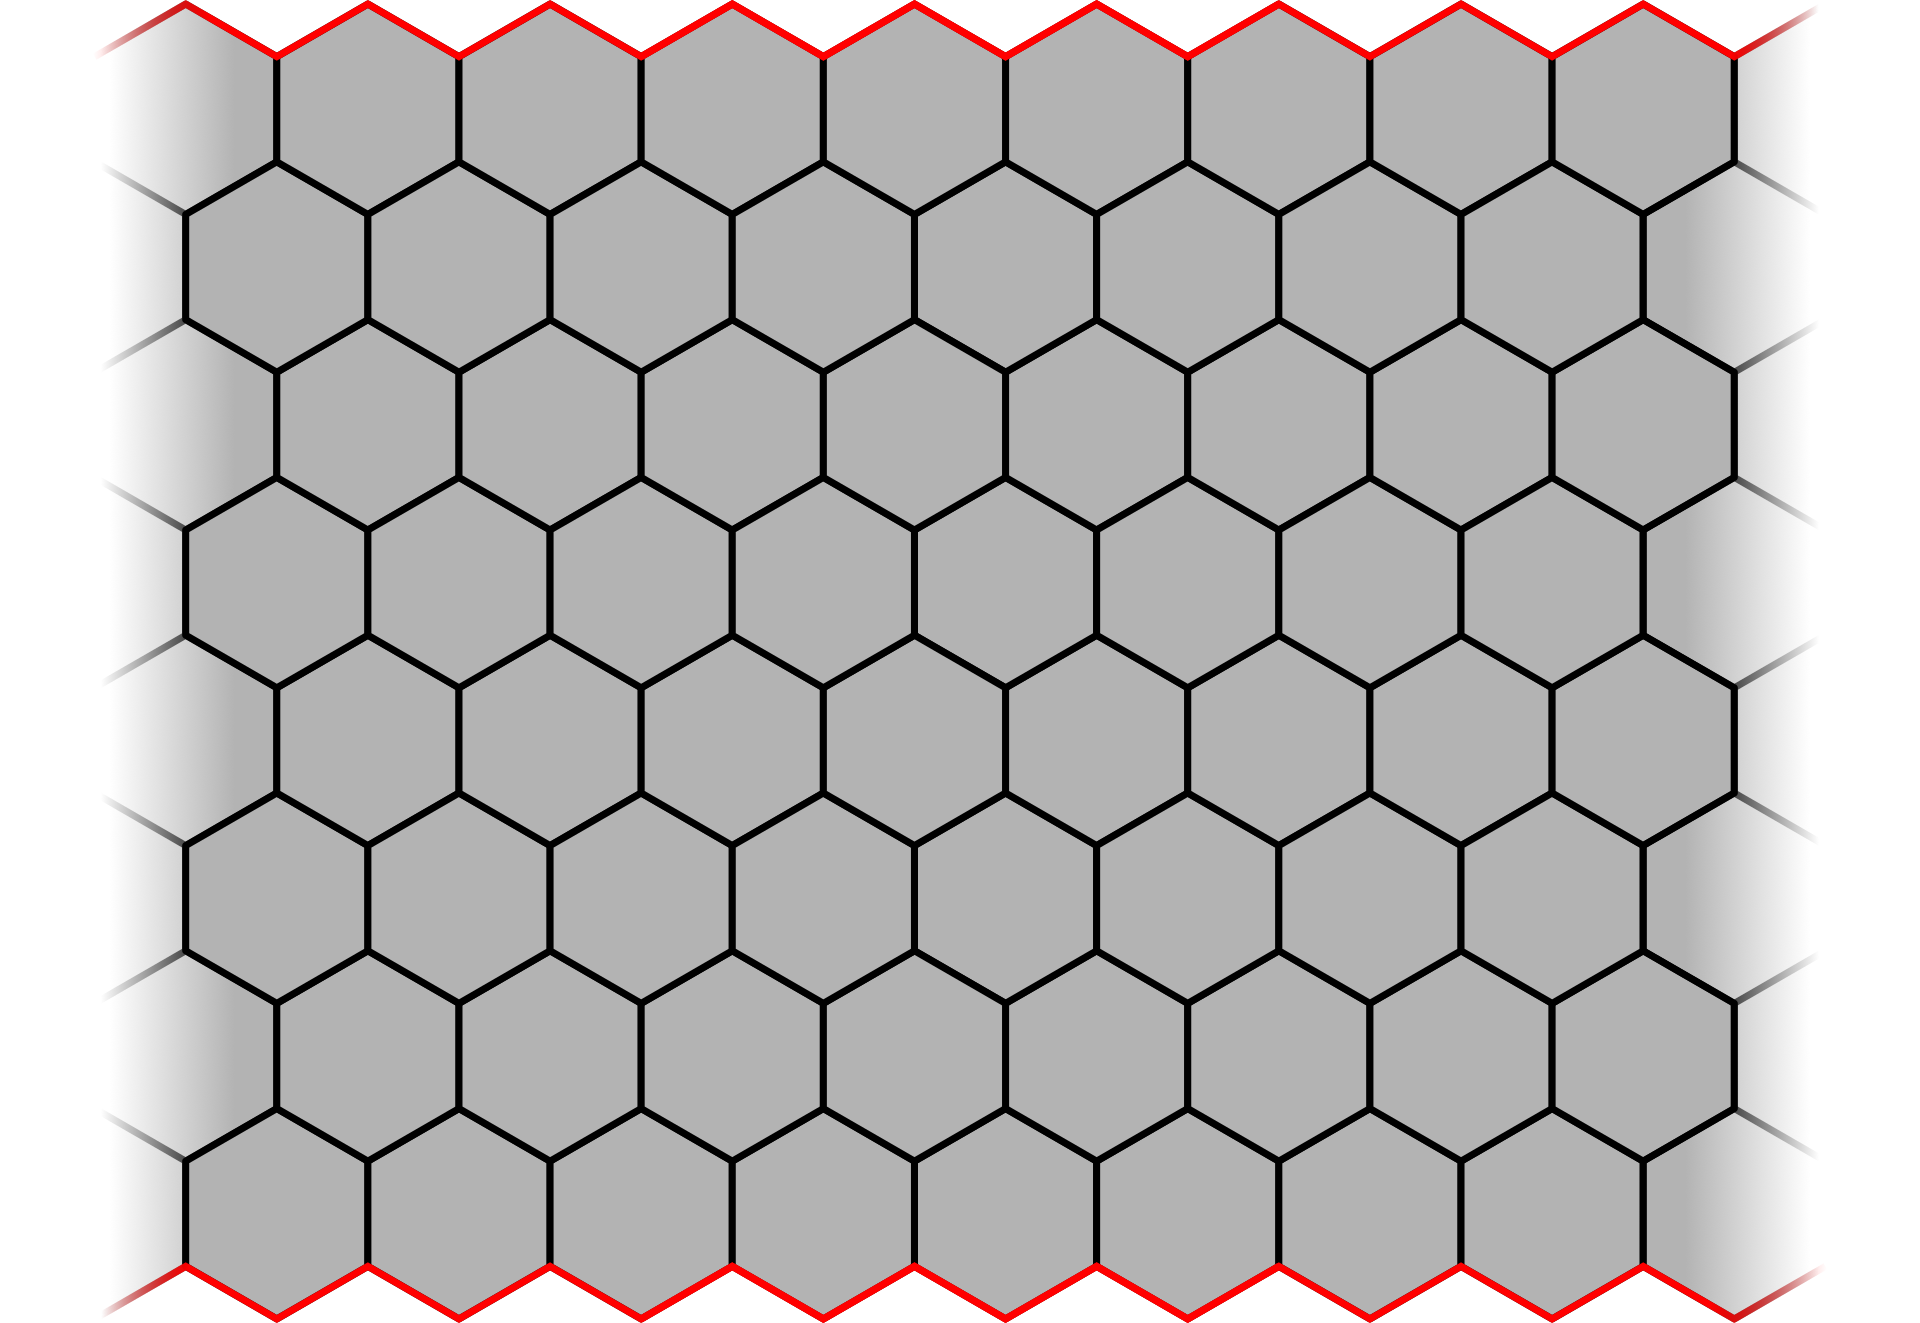
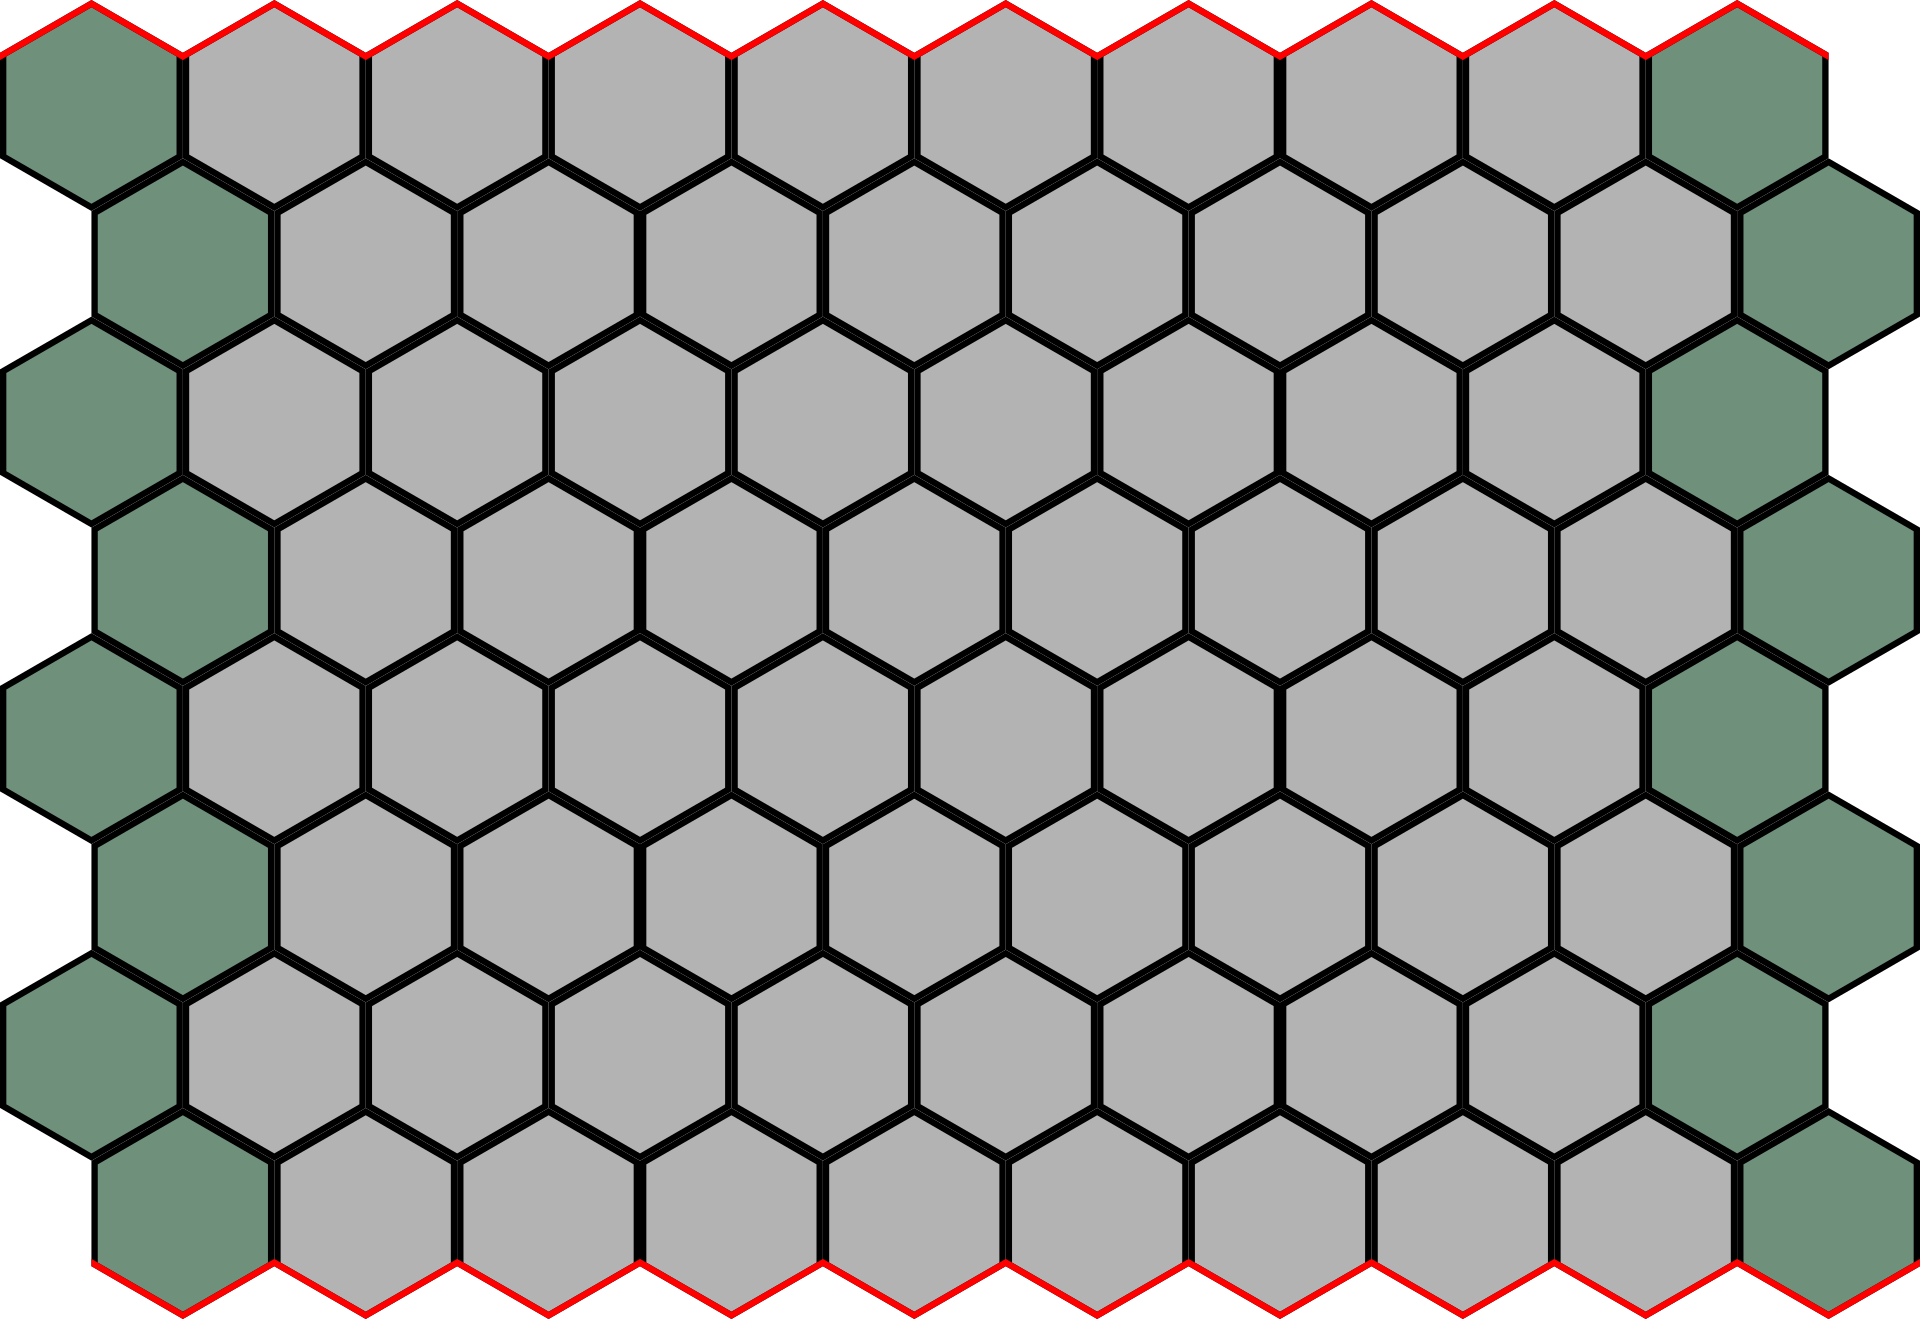
new board texture

diff --git a/main.py b/main.py
@@ -37,7 +37,7 @@ def update(dt):
 
 if __name__ == '__main__':
 	#add background
-	back_img = pyglet.resource.image("img/pixel_perfect_board.png")
+	back_img = pyglet.resource.image("img/board.png")
 	back = pyglet.sprite.Sprite(back_img,0,0)
 	scale = win.get_size()[1] / back_img.height
 	back.scale = scale
